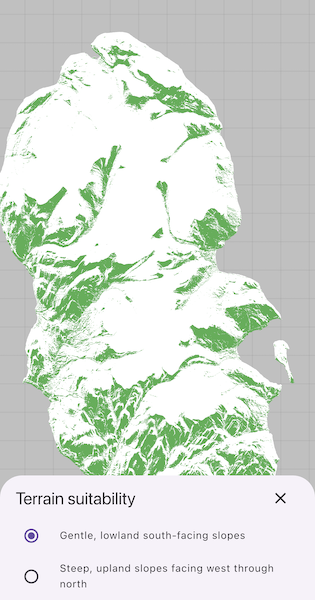
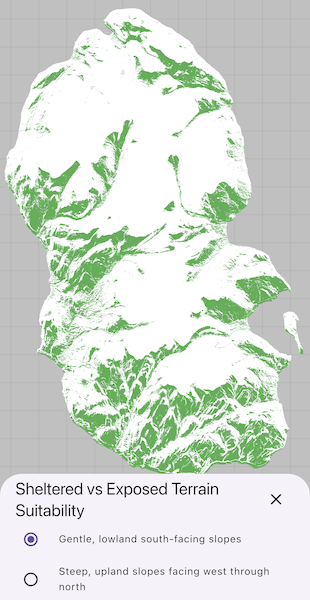
Update bottom sheet title

diff --git a/lib/samples/analyze_terrain_suitability_with_slope_and_aspect/analyze_terrain_suitability_with_slope_and_aspect.dart b/lib/samples/analyze_terrain_suitability_with_slope_and_aspect/analyze_terrain_suitability_with_slope_and_aspect.dart
@@ -343,7 +343,7 @@ class _AnalyzeTerrainSuitabilityWithSlopeAndAspectState
   Widget _buildSettings(BuildContext context) {
     // Build controls for choosing the visible terrain suitability scenario.
     return BottomSheetSettings(
-      title: 'Terrain suitability',
+      title: 'Sheltered vs Exposed Terrain\nSuitability',
       onCloseIconPressed: () => setState(() => _settingsVisible = false),
       settingsWidgets: (context) => [
         RadioGroup<_SiteScenario>(
